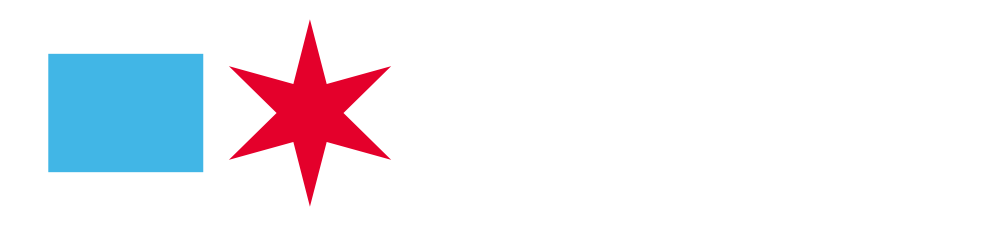
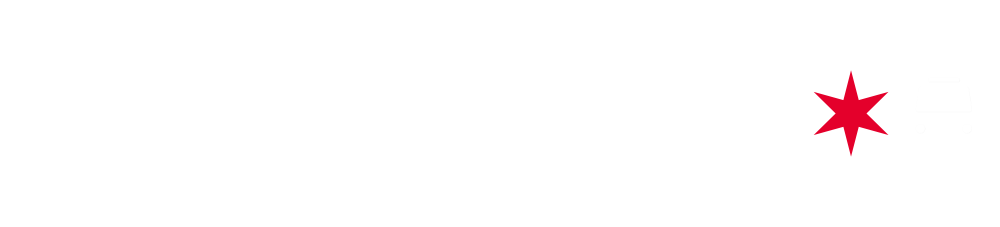
Updated fonts

Changed region(s): [[0.031, 0.1233, 0.403, 0.8634], [0.806, 0.3392, 0.899, 0.6784]]

diff --git a/resources/index.html b/resources/index.html
@@ -20,8 +20,12 @@
         <link href="https://fonts.googleapis.com/css2?family=Lato:ital,wght@0,100;0,300;0,400;0,700;0,900;1,100;1,300;1,400;1,700;1,900&display=swap" rel="stylesheet"> <!--Lato-->
         
         <link rel="preconnect" href="https://fonts.googleapis.com">
-        <link rel="preconnect" href="https://fonts.gstatic.com" crossorigin>
-        <link href="https://fonts.googleapis.com/css2?family=Quicksand:wght@300;400;500;600;700&display=swap" rel="stylesheet"> <!--Quicksand-->
+		<link rel="preconnect" href="https://fonts.gstatic.com" crossorigin>
+		<link href="https://fonts.googleapis.com/css2?family=Chivo:ital,wght@0,100;0,200;0,300;0,400;0,500;0,600;0,700;0,800;0,900;1,100;1,200;1,300;1,400;1,500;1,600;1,700;1,800;1,900&display=swap" rel="stylesheet"> <!--Chivo-->
+		
+		<link rel="preconnect" href="https://fonts.googleapis.com">
+		<link rel="preconnect" href="https://fonts.gstatic.com" crossorigin>
+		<link href="https://fonts.googleapis.com/css2?family=Manrope:wght@200;300;400;500;600;700;800&display=swap" rel="stylesheet"> <!--Manrope-->
         
         <link rel="stylesheet" href="../css/custom.css" type="text/css">
         
@@ -39,7 +43,7 @@
         <nav class="navbar navbar-expand-md navbar-dark" style="background-color:#222222;">
             <div class="container-xxl">
                 <a href="../index.html" class="navbar-brand col-3">
-                        <img src="../assets/brand.png" width=60%>
+                        <img id="brand" src="../assets/brand.png">
                 </a>
                 <!--Toggle button for mobile nav-->
                 <button class="navbar-toggler" type="button" data-bs-toggle="collapse" data-bs-target="#main-nav" aria-controls="main-nav" aria-expanded="false" aria-label="Toggle navigation">
@@ -68,37 +72,23 @@
         
     <!--Name Banner-->
         <div class="row" style="background-color:#434B58">
-            
-            <div class="col-5 mt-2 d-none d-lg-block">
-                <div class="pt-4 pb-lg-4 px-5" style="line-height:.8">
-                    <h2 class="text-light" style="font-family: Montserrat; font-size:50px">Resources</h2>
+            <div class="mt-2">
+                <div class="py-4 ps-5" style="line-height:.8">
+                    <h2 class="fw-bold text-start text-light" style="font-size:40px;font-family: Montserrat;"><img id="arrow" class="align-top" src="../assets/arrow.png" width=10%>&nbsp;Resources</h2>
                 </div>
             </div>
-            
-            <div class="col-12 mt-2 d-lg-none d-block">
-                <div class="pt-4 pb-lg-4 px-5" style="line-height:.8">
-                    <h2 class="text-light" style="font-family: Montserrat; font-size:50px">Resources</h2>
-                </div>
-            </div>
-     
+		</div>
 	<!--Content-->
-            <div class="text-start mt-lg-2 col-lg-7 text-lg-end">
-                <div class="py-4 px-5" style="line-height:1.2">
-                    <p style="font-size:15px;font-family: Montserrat;color: #CDCDCD;">Here is a collection of designs and other things I've made for people to use. Each asset is free for personal use, with all rights reserved © Stormy Kara</p>
-                </div>
-            </div>            
-        </div>
-        
 		<section class="pt-3 pb-3" style="background-color:#33373e">
 			<div class="col-12 text-center">
-				<p style="font-size:15px;font-family: Montserrat;color: #CDCDCD;">All the assets are free to use, but if they helped you out, please consider leaving a thank-you tip on my Ko-fi or PayPal!<br/>Thank you! <i class="bi bi-heart-fill"></i></p>
+				<p style="font-size:15px;font-family: Chivo;color: #CDCDCD;">All the assets are free to use, but if they helped you out, please consider leaving a thank-you tip on my Ko-fi or PayPal!<br/>Thank you! <i class="bi bi-heart-fill"></i></p>
 				<a class="btn btn-outline-light btn-lg customPP fs-5 mx-2 rounded-5" style="font-family: Lato;" href="https://paypal.me/stormythepony?country.x=US&locale.x=en_US" target="_blank" role="button">PayPal&nbsp;&nbsp;&nbsp;&nbsp;<i class="bi bi-paypal"></i></a>
 				<a class="btn btn-outline-light btn-lg customKOFI fs-5 mx-2 rounded-5" style="font-family: Lato;" href="https://ko-fi.com/stormykara" target="_blank" role="button">Kofi&nbsp;&nbsp;&nbsp;&nbsp;<i class="bi bi-cup-hot"></i></a>
 			</div>
 		</section>
 		
 		<div class="pt-4 text-center px-5">
-            <p class="text-light" style="font-family: Montserrat;">These are unofficial maps/schedules not produced by or affiliated with CTA, Metra, Amtrak, RTA, or any agency.<br>
+            <p class="text-light" style="font-family: Chivo; font-weight:200">These are unofficial maps/schedules not produced by or affiliated with CTA, Metra, Amtrak, RTA, or any agency.<br>
 				
 			These resources are provided AS IS. No warranties are provided and all warranties are disclaimed.<br>
 				
@@ -106,7 +96,7 @@
         </div>
 			
 		<div class="pt-5 text-center px-5" style="line-height:.8">
-            <h2 class="text-light" style="font-family: Montserrat; font-size:30px">Metra System Map</h2>
+            <p class="text-light" style="font-family: Chivo; font-size:30px; font-weight: 600">Metra System Map</p>
 			<p class="text-light fst-italic" style="font-family: Montserrat;">Last verified 10/15/2023</p>
         </div>
 		
@@ -123,8 +113,8 @@
         </section>
         
         <div class="pt-5 text-center px-5" style="line-height:.8">
-            <h2 class="text-light" style="font-family: Montserrat; font-size:30px">Metra Schedules</h2>
-			<p class="text-light fst-italic" style="font-family: Montserrat;">Last verified 10/15/2023; Metra Electric Schedule WIP</p>
+            <p class="text-light" style="font-family: Chivo; font-size:30px; font-weight: 600">Metra Schedules</p>
+			<p class="text-light fst-italic" style="font-family: Chivo;">Last verified 10/15/2023; Metra Electric Schedule WIP</p>
         </div>
 		
 		

diff --git a/index.html b/index.html
@@ -19,8 +19,12 @@
         <link href="https://fonts.googleapis.com/css2?family=Lato:ital,wght@0,100;0,300;0,400;0,700;0,900;1,100;1,300;1,400;1,700;1,900&display=swap" rel="stylesheet"> <!--Lato-->
         
         <link rel="preconnect" href="https://fonts.googleapis.com">
-        <link rel="preconnect" href="https://fonts.gstatic.com" crossorigin>
-        <link href="https://fonts.googleapis.com/css2?family=Quicksand:wght@300;400;500;600;700&display=swap" rel="stylesheet"> <!--Quicksand-->
+		<link rel="preconnect" href="https://fonts.gstatic.com" crossorigin>
+		<link href="https://fonts.googleapis.com/css2?family=Chivo:ital,wght@0,100;0,200;0,300;0,400;0,500;0,600;0,700;0,800;0,900;1,100;1,200;1,300;1,400;1,500;1,600;1,700;1,800;1,900&display=swap" rel="stylesheet"> <!--Chivo-->
+		
+		<link rel="preconnect" href="https://fonts.googleapis.com">
+		<link rel="preconnect" href="https://fonts.gstatic.com" crossorigin>
+		<link href="https://fonts.googleapis.com/css2?family=Manrope:wght@200;300;400;500;600;700;800&display=swap" rel="stylesheet"> <!--Manrope-->
         
         <link rel="stylesheet" href="css/custom.css" type="text/css">
         
@@ -78,8 +82,8 @@
             
             <div class="text-end col-sm-9 mt-2">
                 <div class="py-4 pe-md-5 pe-sm-4 pe-3" style="line-height:.8">
-                    <p class="fw-bold text-light" style="font-size:60px">Stormy Kara</p>
-                    <p class="text-light fs-4 pe-2" style="font-family: Lato">designer // artist // editor // DJ&nbsp;&nbsp;<i class="bi bi-arrow-return-left"></i></p>
+                    <p class="fw-bold text-light" style="font-size:60px; font-family: Chivo; font-weight:400;">Stormy Kara</p>
+                    <p class="text-light fs-4 pe-2" style="font-family: Manrope">designer // artist // editor // DJ&nbsp;&nbsp;<i class="bi bi-arrow-return-left"></i></p>
                 </div>
             </div>
             
@@ -143,7 +147,7 @@
         </div>
         
     <footer>
-        <p class="text-end px-5" style="font-family: Quicksand;color: #898989">© 2023 Stormy Kara</p>
+        <p class="text-end px-5" style="font-family: Chivo;color: #898989">© 2023 Stormy Kara</p>
     </footer>
         
         <script src="https://cdn.jsdelivr.net/npm/bootstrap@5.0.2/dist/js/bootstrap.bundle.min.js" integrity="sha384-MrcW6ZMFYlzcLA8Nl+NtUVF0sA7MsXsP1UyJoMp4YLEuNSfAP+JcXn/tWtIaxVXM" crossorigin="anonymous"></script> <!--brings in bootstrap-->

diff --git a/professional/index.html b/professional/index.html
@@ -20,8 +20,12 @@
         <link href="https://fonts.googleapis.com/css2?family=Lato:ital,wght@0,100;0,300;0,400;0,700;0,900;1,100;1,300;1,400;1,700;1,900&display=swap" rel="stylesheet"> <!--Lato-->
         
         <link rel="preconnect" href="https://fonts.googleapis.com">
-        <link rel="preconnect" href="https://fonts.gstatic.com" crossorigin>
-        <link href="https://fonts.googleapis.com/css2?family=Quicksand:wght@300;400;500;600;700&display=swap" rel="stylesheet"> <!--Quicksand-->
+		<link rel="preconnect" href="https://fonts.gstatic.com" crossorigin>
+		<link href="https://fonts.googleapis.com/css2?family=Chivo:ital,wght@0,100;0,200;0,300;0,400;0,500;0,600;0,700;0,800;0,900;1,100;1,200;1,300;1,400;1,500;1,600;1,700;1,800;1,900&display=swap" rel="stylesheet"> <!--Chivo-->
+		
+		<link rel="preconnect" href="https://fonts.googleapis.com">
+		<link rel="preconnect" href="https://fonts.gstatic.com" crossorigin>
+		<link href="https://fonts.googleapis.com/css2?family=Manrope:wght@200;300;400;500;600;700;800&display=swap" rel="stylesheet"> <!--Manrope-->
         
         <link rel="stylesheet" href="../css/custom.css" type="text/css">
         
@@ -71,13 +75,13 @@
             
             <div class="col-6 mt-2 d-none d-lg-block">
                 <div class="pt-4 pb-lg-4 px-5" style="line-height:.8">
-                    <h2 class="text-light" style="font-family: Montserrat; font-size:50px">Professional Work</h2>
+                    <h2 class="text-light" style="font-family: Manrope; font-size:50px">Professional Work</h2>
                 </div>
             </div>
             
             <div class="col-12 mt-2 d-lg-none d-block">
                 <div class="pt-4 pb-lg-4 px-5" style="line-height:.8">
-                    <h2 class="text-light" style="font-family: Montserrat; font-size:50px">Professional Work</h2>
+                    <h2 class="text-light" style="font-family: Manrope; font-size:50px">Professional Work</h2>
                 </div>
             </div>
             
@@ -108,7 +112,7 @@
 		
 		
         <footer>
-            <p class="text-end px-5" style="font-family: Quicksand;color: #898989">© 2023 Stormy Kara</p>
+            <p class="text-end px-5" style="font-family: Chivo;color: #898989">© 2023 Stormy Kara</p>
         </footer>
         
         <script src='https://storage.ko-fi.com/cdn/scripts/overlay-widget.js'></script>

diff --git a/visualart/index.html b/visualart/index.html
@@ -20,8 +20,12 @@
         <link href="https://fonts.googleapis.com/css2?family=Lato:ital,wght@0,100;0,300;0,400;0,700;0,900;1,100;1,300;1,400;1,700;1,900&display=swap" rel="stylesheet"> <!--Lato-->
         
         <link rel="preconnect" href="https://fonts.googleapis.com">
-        <link rel="preconnect" href="https://fonts.gstatic.com" crossorigin>
-        <link href="https://fonts.googleapis.com/css2?family=Quicksand:wght@300;400;500;600;700&display=swap" rel="stylesheet"> <!--Quicksand-->
+		<link rel="preconnect" href="https://fonts.gstatic.com" crossorigin>
+		<link href="https://fonts.googleapis.com/css2?family=Chivo:ital,wght@0,100;0,200;0,300;0,400;0,500;0,600;0,700;0,800;0,900;1,100;1,200;1,300;1,400;1,500;1,600;1,700;1,800;1,900&display=swap" rel="stylesheet"> <!--Chivo-->
+		
+		<link rel="preconnect" href="https://fonts.googleapis.com">
+		<link rel="preconnect" href="https://fonts.gstatic.com" crossorigin>
+		<link href="https://fonts.googleapis.com/css2?family=Manrope:wght@200;300;400;500;600;700;800&display=swap" rel="stylesheet"> <!--Manrope-->
         
         <link rel="stylesheet" href="../css/custom.css" type="text/css">
         
@@ -71,13 +75,13 @@
             
             <div class="col-5 mt-2 d-none d-lg-block">
                 <div class="pt-4 pb-lg-4 px-5" style="line-height:.8">
-                    <h2 class="text-light" style="font-family: Montserrat; font-size:50px">Visual Art</h2>
+                    <h2 class="text-light" style="font-family: Manrope; font-size:50px">Visual Art</h2>
                 </div>
             </div>
             
             <div class="col-12 mt-2 d-lg-none d-block">
                 <div class="pt-4 pb-lg-4 px-5" style="line-height:.8">
-                    <h2 class="text-light" style="font-family: Montserrat; font-size:50px">Visual Art</h2>
+                    <h2 class="text-light" style="font-family: Manrope; font-size:50px">Visual Art</h2>
                 </div>
             </div>
             
@@ -127,7 +131,7 @@
         </div>
         
         <footer>
-            <p class="text-end px-5" style="font-family: Quicksand;color: #898989">© 2023 Stormy Kara</p>
+            <p class="text-end px-5" style="font-family: Chivo;color: #898989">© 2023 Stormy Kara</p>
         </footer>
         
         <script src='https://storage.ko-fi.com/cdn/scripts/overlay-widget.js'></script>

diff --git a/designs/index.html b/designs/index.html
@@ -20,8 +20,12 @@
         <link href="https://fonts.googleapis.com/css2?family=Lato:ital,wght@0,100;0,300;0,400;0,700;0,900;1,100;1,300;1,400;1,700;1,900&display=swap" rel="stylesheet"> <!--Lato-->
         
         <link rel="preconnect" href="https://fonts.googleapis.com">
-        <link rel="preconnect" href="https://fonts.gstatic.com" crossorigin>
-        <link href="https://fonts.googleapis.com/css2?family=Quicksand:wght@300;400;500;600;700&display=swap" rel="stylesheet"> <!--Quicksand-->
+		<link rel="preconnect" href="https://fonts.gstatic.com" crossorigin>
+		<link href="https://fonts.googleapis.com/css2?family=Chivo:ital,wght@0,100;0,200;0,300;0,400;0,500;0,600;0,700;0,800;0,900;1,100;1,200;1,300;1,400;1,500;1,600;1,700;1,800;1,900&display=swap" rel="stylesheet"> <!--Chivo-->
+		
+		<link rel="preconnect" href="https://fonts.googleapis.com">
+		<link rel="preconnect" href="https://fonts.gstatic.com" crossorigin>
+		<link href="https://fonts.googleapis.com/css2?family=Manrope:wght@200;300;400;500;600;700;800&display=swap" rel="stylesheet"> <!--Manrope-->
         
         <link rel="stylesheet" href="../css/custom.css" type="text/css">
         
@@ -71,13 +75,13 @@
             
             <div class="col-5 mt-2 d-none d-lg-block">
                 <div class="pt-4 pb-lg-4 px-5" style="line-height:.8">
-                    <h2 class="text-light" style="font-family: Montserrat; font-size:50px">Designs</h2>
+                    <h2 class="text-light" style="font-family: Manrope; font-size:50px">Designs</h2>
                 </div>
             </div>
             
             <div class="col-12 mt-2 d-lg-none d-block">
                 <div class="pt-4 pb-lg-4 px-5" style="line-height:.8">
-                    <h2 class="text-light" style="font-family: Montserrat; font-size:50px">Designs</h2>
+                    <h2 class="text-light" style="font-family: Chibo; font-size:50px">Designs</h2>
                 </div>
             </div>
             
@@ -113,7 +117,7 @@
         </div>
         
         <footer>
-            <p class="text-end px-5" style="font-family: Quicksand;color: #898989">© 2023 Stormy Kara</p>
+            <p class="text-end px-5" style="font-family: Chivo;color: #898989">© 2023 Stormy Kara</p>
         </footer>
         
         <script src='https://storage.ko-fi.com/cdn/scripts/overlay-widget.js'></script>

diff --git a/about.html b/about.html
@@ -19,8 +19,12 @@
         <link href="https://fonts.googleapis.com/css2?family=Lato:ital,wght@0,100;0,300;0,400;0,700;0,900;1,100;1,300;1,400;1,700;1,900&display=swap" rel="stylesheet"> <!--Lato-->
         
         <link rel="preconnect" href="https://fonts.googleapis.com">
-        <link rel="preconnect" href="https://fonts.gstatic.com" crossorigin>
-        <link href="https://fonts.googleapis.com/css2?family=Quicksand:wght@300;400;500;600;700&display=swap" rel="stylesheet"> <!--Quicksand-->
+		<link rel="preconnect" href="https://fonts.gstatic.com" crossorigin>
+		<link href="https://fonts.googleapis.com/css2?family=Chivo:ital,wght@0,100;0,200;0,300;0,400;0,500;0,600;0,700;0,800;0,900;1,100;1,200;1,300;1,400;1,500;1,600;1,700;1,800;1,900&display=swap" rel="stylesheet"> <!--Chivo-->
+		
+		<link rel="preconnect" href="https://fonts.googleapis.com">
+		<link rel="preconnect" href="https://fonts.gstatic.com" crossorigin>
+		<link href="https://fonts.googleapis.com/css2?family=Manrope:wght@200;300;400;500;600;700;800&display=swap" rel="stylesheet"> <!--Manrope-->
         
         <link rel="stylesheet" href="css/custom.css" type="text/css">
         
@@ -100,7 +104,7 @@
         </div>
         
         <footer>
-            <p class="text-end px-5" style="font-family: Quicksand;color: #898989">© 2023 Stormy Kara</p>
+            <p class="text-end px-5" style="font-family: Chivo;color: #898989">© 2023 Stormy Kara</p>
         </footer>
         
         <script src='https://storage.ko-fi.com/cdn/scripts/overlay-widget.js'></script>

diff --git a/contact.html b/contact.html
@@ -19,8 +19,12 @@
         <link href="https://fonts.googleapis.com/css2?family=Lato:ital,wght@0,100;0,300;0,400;0,700;0,900;1,100;1,300;1,400;1,700;1,900&display=swap" rel="stylesheet"> <!--Lato-->
         
         <link rel="preconnect" href="https://fonts.googleapis.com">
-        <link rel="preconnect" href="https://fonts.gstatic.com" crossorigin>
-        <link href="https://fonts.googleapis.com/css2?family=Quicksand:wght@300;400;500;600;700&display=swap" rel="stylesheet"> <!--Quicksand-->
+		<link rel="preconnect" href="https://fonts.gstatic.com" crossorigin>
+		<link href="https://fonts.googleapis.com/css2?family=Chivo:ital,wght@0,100;0,200;0,300;0,400;0,500;0,600;0,700;0,800;0,900;1,100;1,200;1,300;1,400;1,500;1,600;1,700;1,800;1,900&display=swap" rel="stylesheet"> <!--Chivo-->
+		
+		<link rel="preconnect" href="https://fonts.googleapis.com">
+		<link rel="preconnect" href="https://fonts.gstatic.com" crossorigin>
+		<link href="https://fonts.googleapis.com/css2?family=Manrope:wght@200;300;400;500;600;700;800&display=swap" rel="stylesheet"> <!--Manrope-->
         
         <link rel="stylesheet" href="css/custom.css" type="text/css">
         
@@ -91,7 +95,7 @@
         </div>
         
         <footer>
-            <p class="text-end px-5" style="font-family: Quicksand;color: #898989">© 2023 Stormy Kara</p>
+            <p class="text-end px-5" style="font-family: Chivo;color: #898989">© 2023 Stormy Kara</p>
         </footer>
         
         <script src='https://storage.ko-fi.com/cdn/scripts/overlay-widget.js'></script>

diff --git a/portfolio.html b/portfolio.html
@@ -38,7 +38,7 @@
         <nav class="navbar navbar-expand-md navbar-dark" style="background-color:#222222;">
             <div class="container-xxl">
                 <a href="index.html" class="navbar-brand col-3">
-                        <img id="brand" src="assets/brand.png" width=60%>
+                        <img id="brand" src="assets/brand.png">
                 </a>
                 <!--Toggle button for mobile nav-->
                 <button class="navbar-toggler" type="button" data-bs-toggle="collapse" data-bs-target="#main-nav" aria-controls="main-nav" aria-expanded="false" aria-label="Toggle navigation">

diff --git a/css/custom.css b/css/custom.css
@@ -220,8 +220,8 @@ a {
 }
 
 #brand{
-    max-width: 60%;
-    min-width: 170px;
+    max-width: 100%;
+    min-width: 40%;
     height: auto;
 }
 
